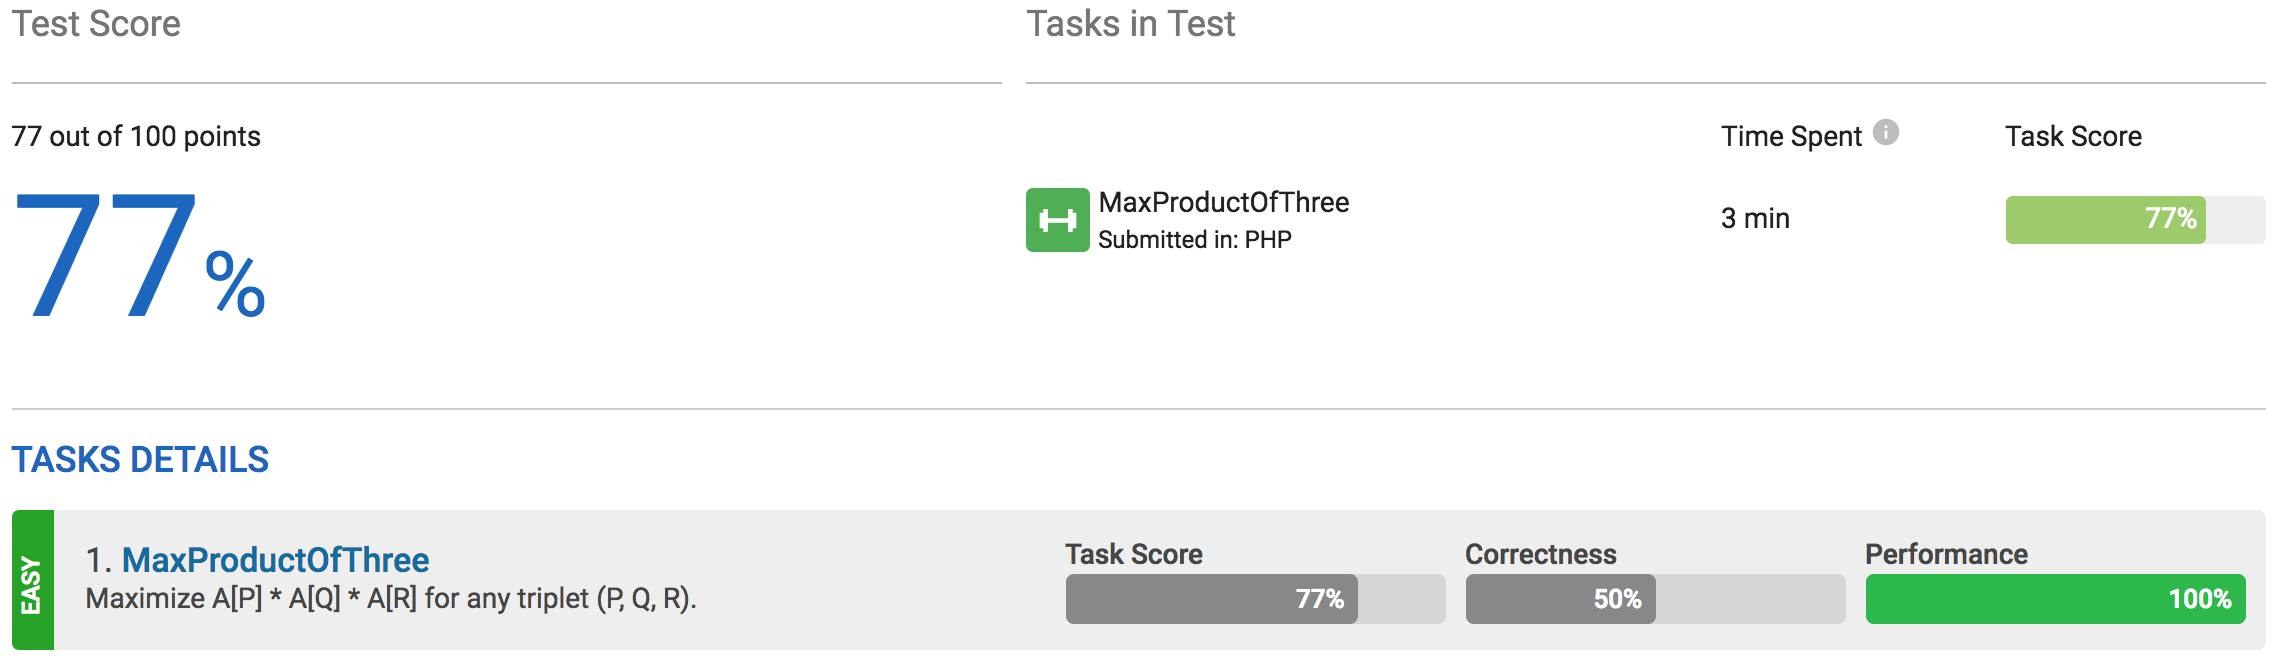
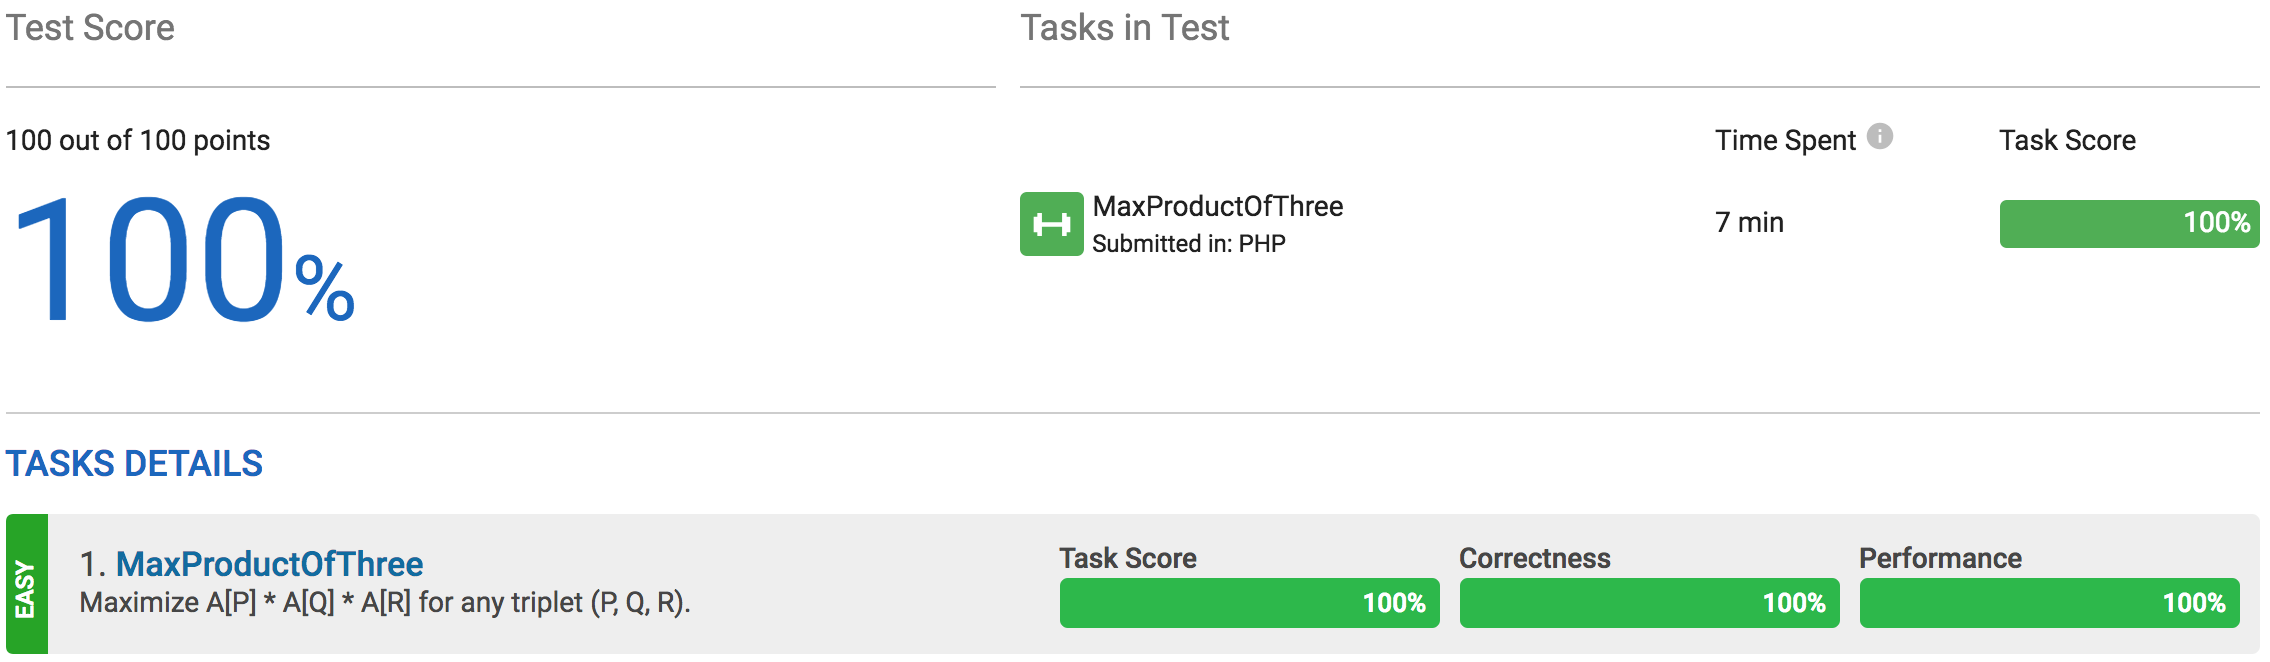
Awesome Completed for MaxProductOfThree of Lesson_6_Sorting.

diff --git a/Lessons/6_Sorting/Tasks_MaxProductOfThree/Answer.php b/Lessons/6_Sorting/Tasks_MaxProductOfThree/Answer.php
@@ -46,7 +46,7 @@ function solution($A) {
 
             for ($j = 0; $j < $minLeftArrLength; $j++)
             {
-                if (isset($minLeftArray[$j]) && $targetArray[1] > $minLeftArray[$j][1])
+                if (isset($minLeftArray[$j]) && $targetArray[2] > $minLeftArray[$j][2])
                 {
                     $swicthTmp = $minLeftArray[$j];
                     $minLeftArray[$j] = $targetArray;
@@ -141,7 +141,7 @@ function solution($A) {
         }
         else
         {
-            return $mixTopArray[0][2] * $mixTopArray[1][2] * $maxLeftArray[2][2];
+            return $mixTopArray[0][2] * $mixTopArray[1][2] * $maxLeftArray[1][2];
         }
     }
     else
